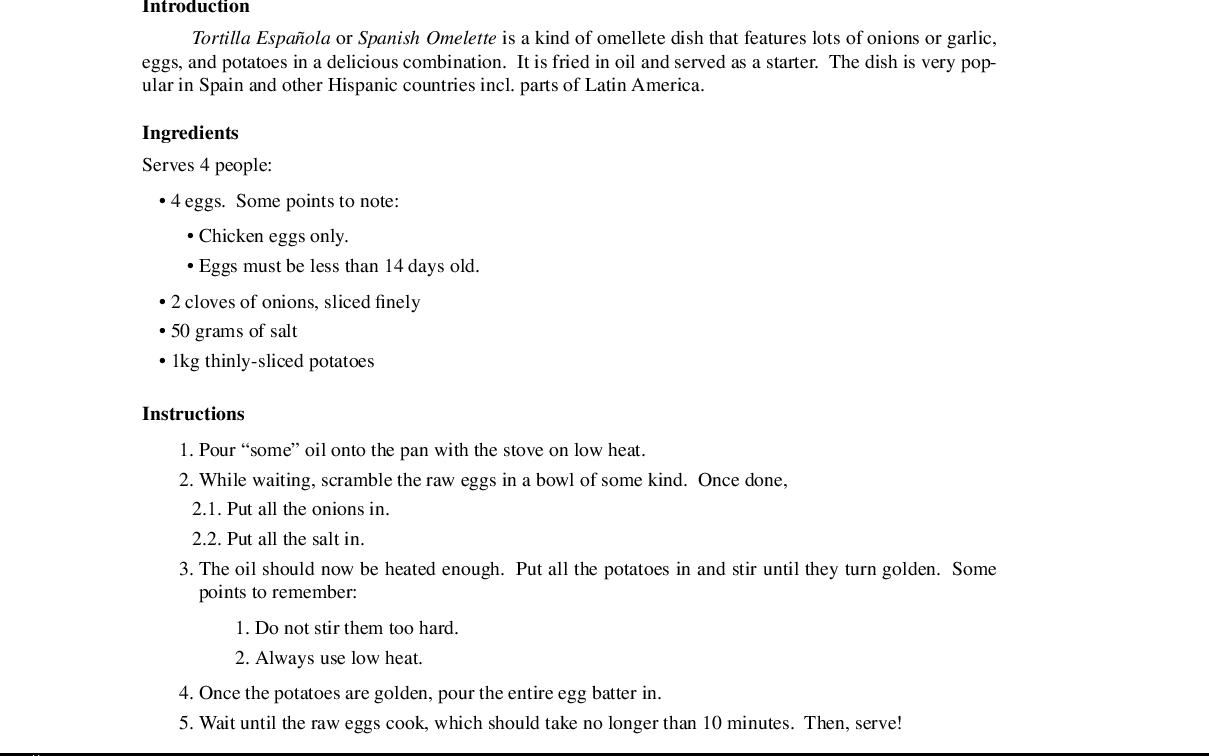
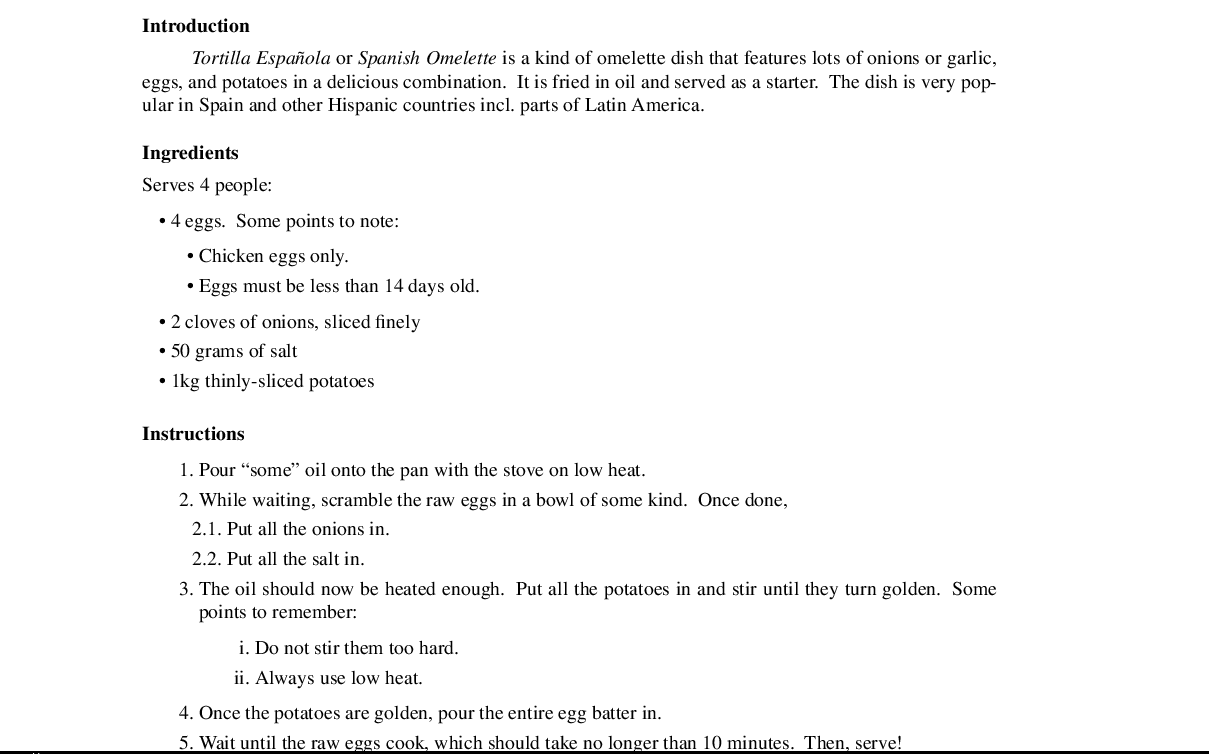
Hmm

Changed region(s): [[0.1224, 0.0, 0.8263, 1.0]]

diff --git a/README.rst b/README.rst
@@ -84,7 +84,7 @@ In reStructuredText
 Introduction
 ~~~~~~~~~~~~
 Tortilla  Española  or  Spanish  Omelette  is a kind of
-omellete dish that features lots of onions or garlic,  eggs,
+omelette dish that features lots of onions or garlic,  eggs,
 and potatoes in a delicious combination.  It is fried in oil
 and served as a starter.  The dish is very popular in  Spain
 and other Hispanic countries incl. parts of Latin America.
@@ -146,7 +146,7 @@ Source file in Troff
   .i "Tortilla Española"
   or
   .i "Spanish Omelette"
-  is a kind of omellete dish that features lots of onions or garlic, eggs, and
+  is a kind of omelette dish that features lots of onions or garlic, eggs, and
   potatoes in a delicious combination.
   It is fried in oil and served as a starter.
   The dish is very popular in Spain and other Hispanic countries incl. parts of
@@ -186,7 +186,7 @@ Source file in Troff
   The oil should now be heated enough.
   Put all the potatoes in and stir until they turn golden.
   Some points to remember:
-  .{o
+  .{o i
   .oo
   Do not stir them too hard.
   .oo
